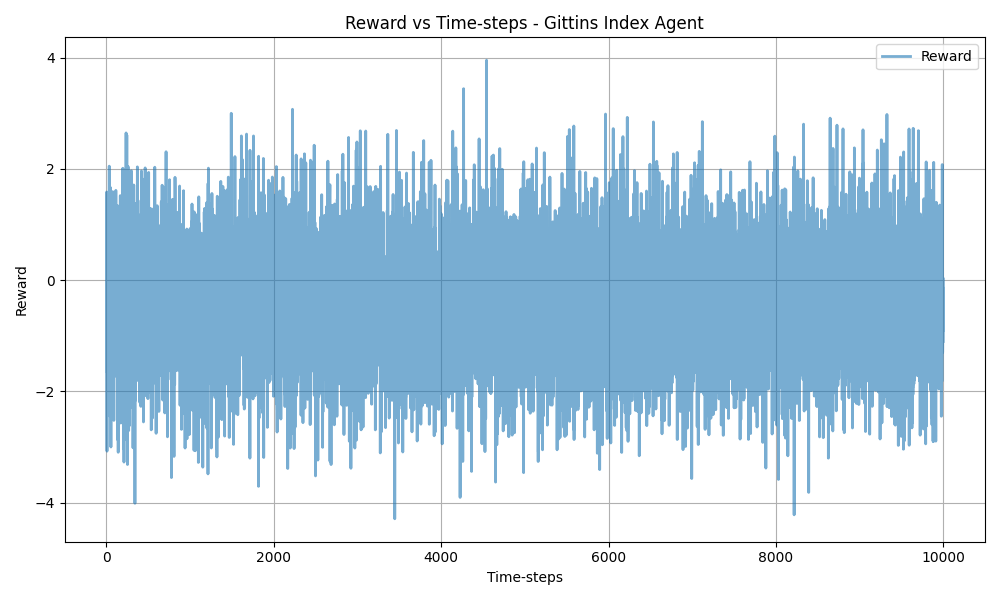
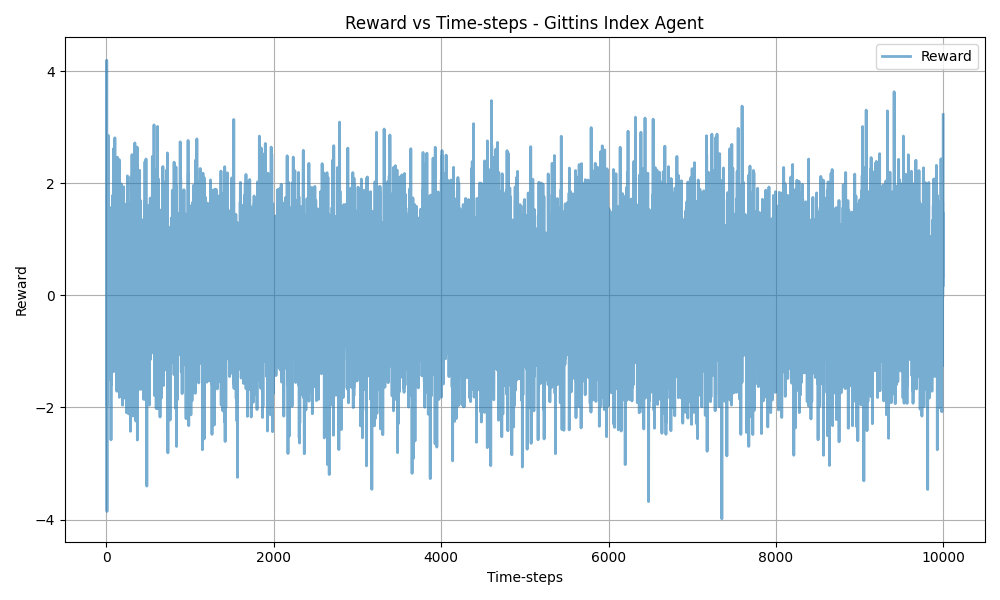
Refactor GittinsIndexAgent to remove epsilon-greedy action selection, streamlining decision-making to always choose the action with the highest Gittins index. Update binary result images for Gittins index agent and total regret visualizations to reflect recent changes.

diff --git a/gittins_index.py b/gittins_index.py
@@ -48,10 +48,7 @@ class GittinsIndexAgent:
       if self.t <= self.n_actions:
         return self.t - 1
 
-      if np.random.rand() < self.epsilon:
-        return np.random.randint(self.n_actions)
-      else:
-        return np.argmax(self.gittins_index)
+      return np.argmax(self.gittins_index)
 
     def update_estimates(self, action, reward):
       # store history for histogram visualization
